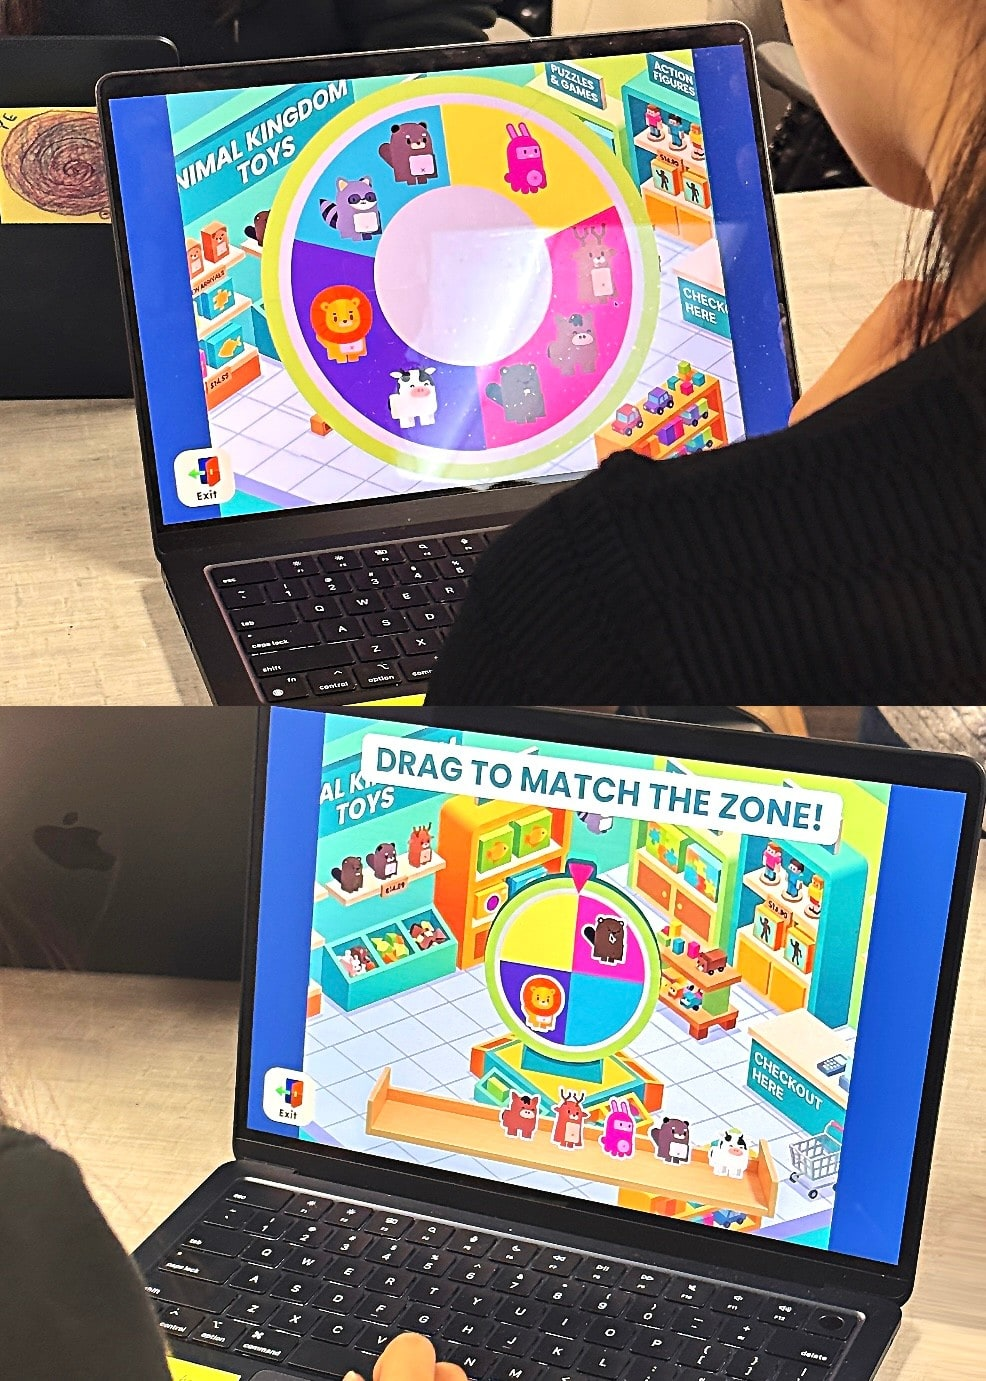
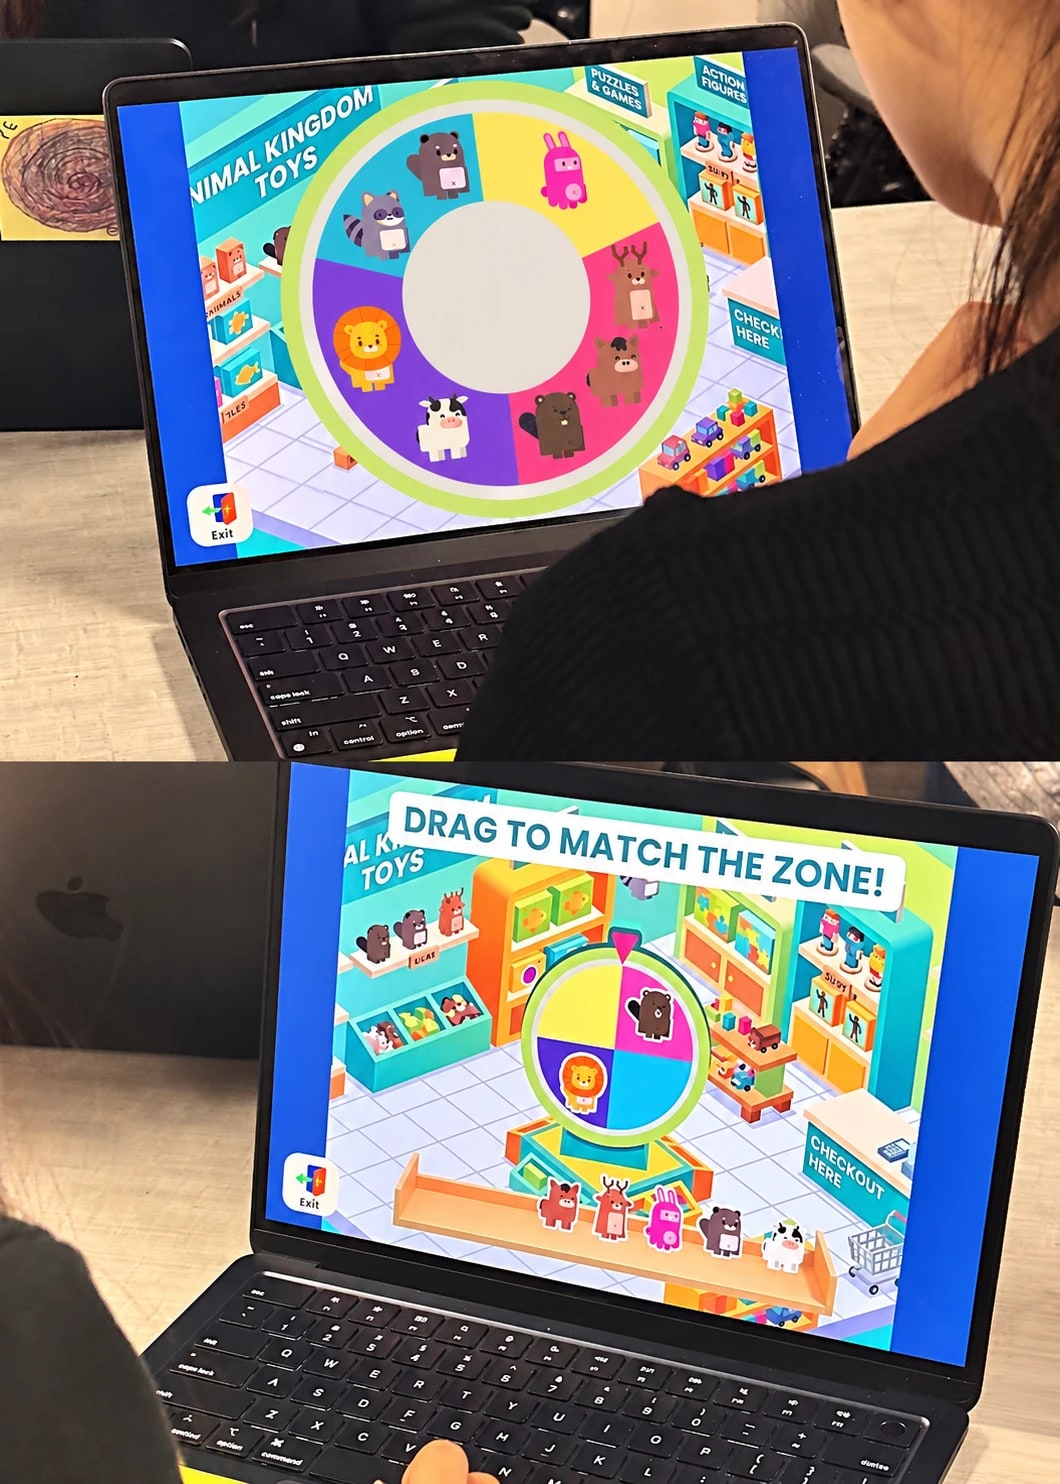
Home gallery: sharper toy-store game image in slot 7
Claude-Session: https://claude.ai/code/session_016JipU5KkSJDLw1FRNbE3mb

diff --git a/OPEN-ITEMS.md b/OPEN-ITEMS.md
@@ -94,7 +94,7 @@ Tick an item (`[x]`) when it's done.
   - [x] `gallery-03` — added (REI Co-op Instagram post + story: phone mockups and flat artwork, 1071 × 1908 px, fills its tile edge to edge; white background around the pieces made transparent, empty margins trimmed). Same REI logo question as gallery-02
   - [x] `gallery-05` — added (Sake High! Instagram screen recording, 4 s, loops). Converted with ffmpeg to H.264, 720 × 1280, no sound, 0.49 MB (was 3.5 MB HEVC); poster still `gallery-05-poster.jpg` added
   - [x] `gallery-06` — added (Boston Interiors "Make Room for Bedtime Stories" billboard mockup, sharper version 1472 × 1067 px). Confirm: is the photo of the mother and child a stock photo (if so, label it "Stock photo" or similar), and was this made for Boston Interiors (client or internship work) or self-initiated? It uses their logo
-  - [x] `gallery-07` — added (toy-store game on two laptops, 986 × 1381 px)
+  - [x] `gallery-07` — added (toy-store game on two laptops, sharper version 1060 × 1484 px)
   - [x] `gallery-08` — added (Boston Interiors promoted post on a phone, sharper version 1031 × 1431 px; black frame and white edge lines trimmed). Same questions as gallery-06: is the photo of the woman and dog a stock photo (label it if so), and was this made for Boston Interiors or self-initiated?
 - [ ] Gallery case study tiles: give each case study a 4:3 tile image (`tileImage` + `tileAlt`, like Galactic Guardians), so the two tiles in each pair are the same shape (CTE still uses its grey placeholder cover; Buddy's and WonderWeave covers are 4:3)
 - [ ] Visual work for Play and Home (images, MP4s, GIFs) — add each to `content/images/play/` and one entry in `content/play.yaml` (the Play page shows 9 grey placeholders until then)
